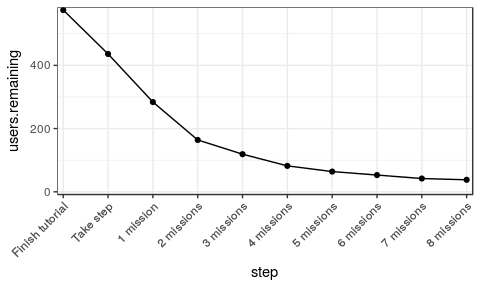
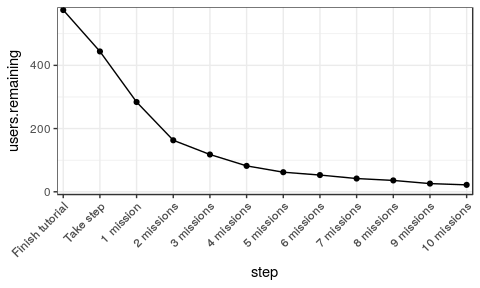
removed duplicate mission complete events from dropoffs

diff --git a/R/stats_for_paper.html b/R/stats_for_paper.html
@@ -580,9 +580,10 @@ April 17, 2018</p>
 <li>Took a step</li>
 <li>Completed first mission</li>
 <li>Completed second mission</li>
+<li>And so on...</li>
 </ol>
-<p>Of the 575 people who finished the tutorial, 436 took a step (76%), 284 finished at least one mission afterwards (49%), 164 completed at least two missions afterwards (29%), and 164 did at least eight missions afterwards (29%).</p>
[1 lines of base64/hex data omitted]
+<p>Of the 575 people who finished the tutorial, 444 took a step (77%), 284 finished at least one mission afterwards (49%), 163 completed at least two missions afterwards (28%), and 22 did at least 10 missions afterwards (4%).</p>
[1 lines of base64/hex data omitted]
 <h1 id="turk-study">Turk Study</h1>
 <p>Update: This is now all of the data. There used to be 19 anonymous user routes, but three of them actually had no labels placed by the anonymous user (we had forgotten to check beforehand), thus we have only 16.</p>
 <p>Even though 5 turkers did each route, the high level results for individual turkers looks only at the first turker to complete each set of routes. This makes aggregate stats more even, and a fairer comparison across user groups. (but maybe we should actually use all turkers when not aggregating, actually...)</p>

diff --git a/R/stats_for_paper.md b/R/stats_for_paper.md
@@ -165,8 +165,9 @@ The steps in the graph below are as follows:
 2.  Took a step
 3.  Completed first mission
 4.  Completed second mission
+5.  And so on...
 
-Of the 575 people who finished the tutorial, 436 took a step (76%), 284 finished at least one mission afterwards (49%), 164 completed at least two missions afterwards (29%), and 164 did at least eight missions afterwards (29%).
+Of the 575 people who finished the tutorial, 444 took a step (77%), 284 finished at least one mission afterwards (49%), 163 completed at least two missions afterwards (28%), and 22 did at least 10 missions afterwards (4%).
 
 ![](stats_for_paper_files/figure-markdown_github/public.deployment.user.dropoff.plot-1.png)
 
